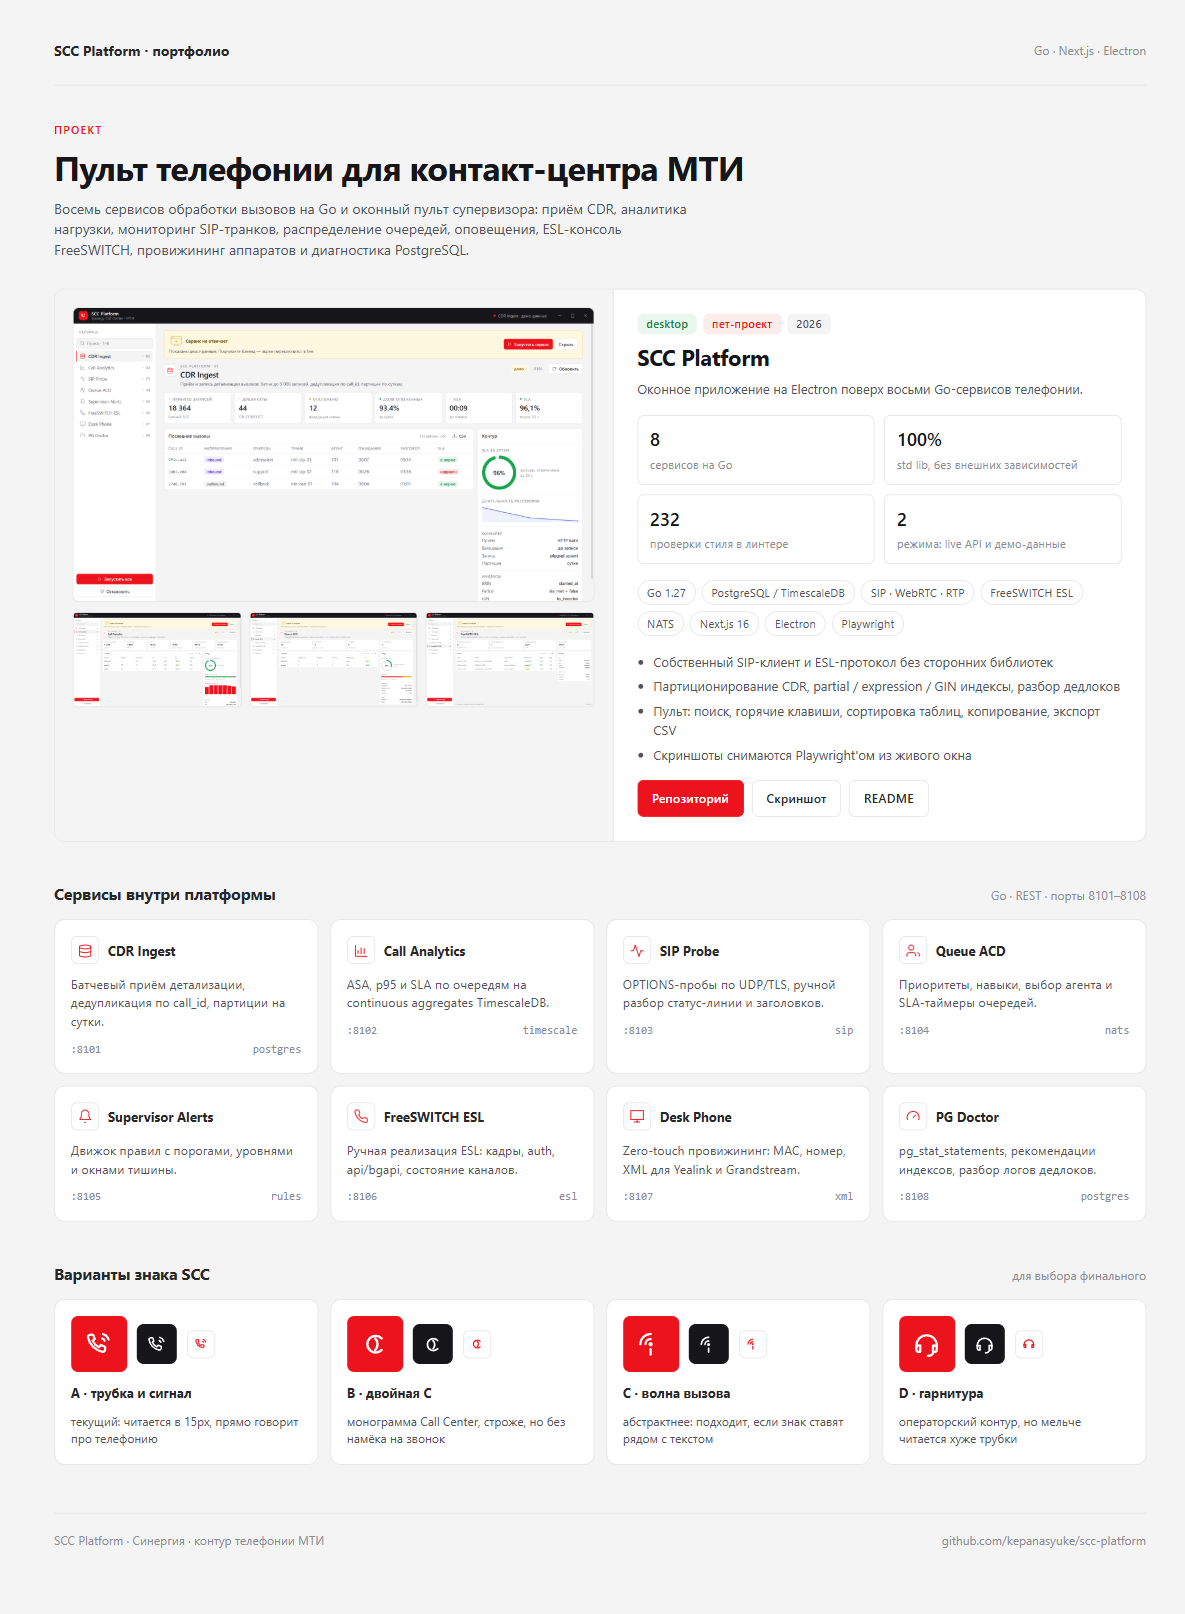
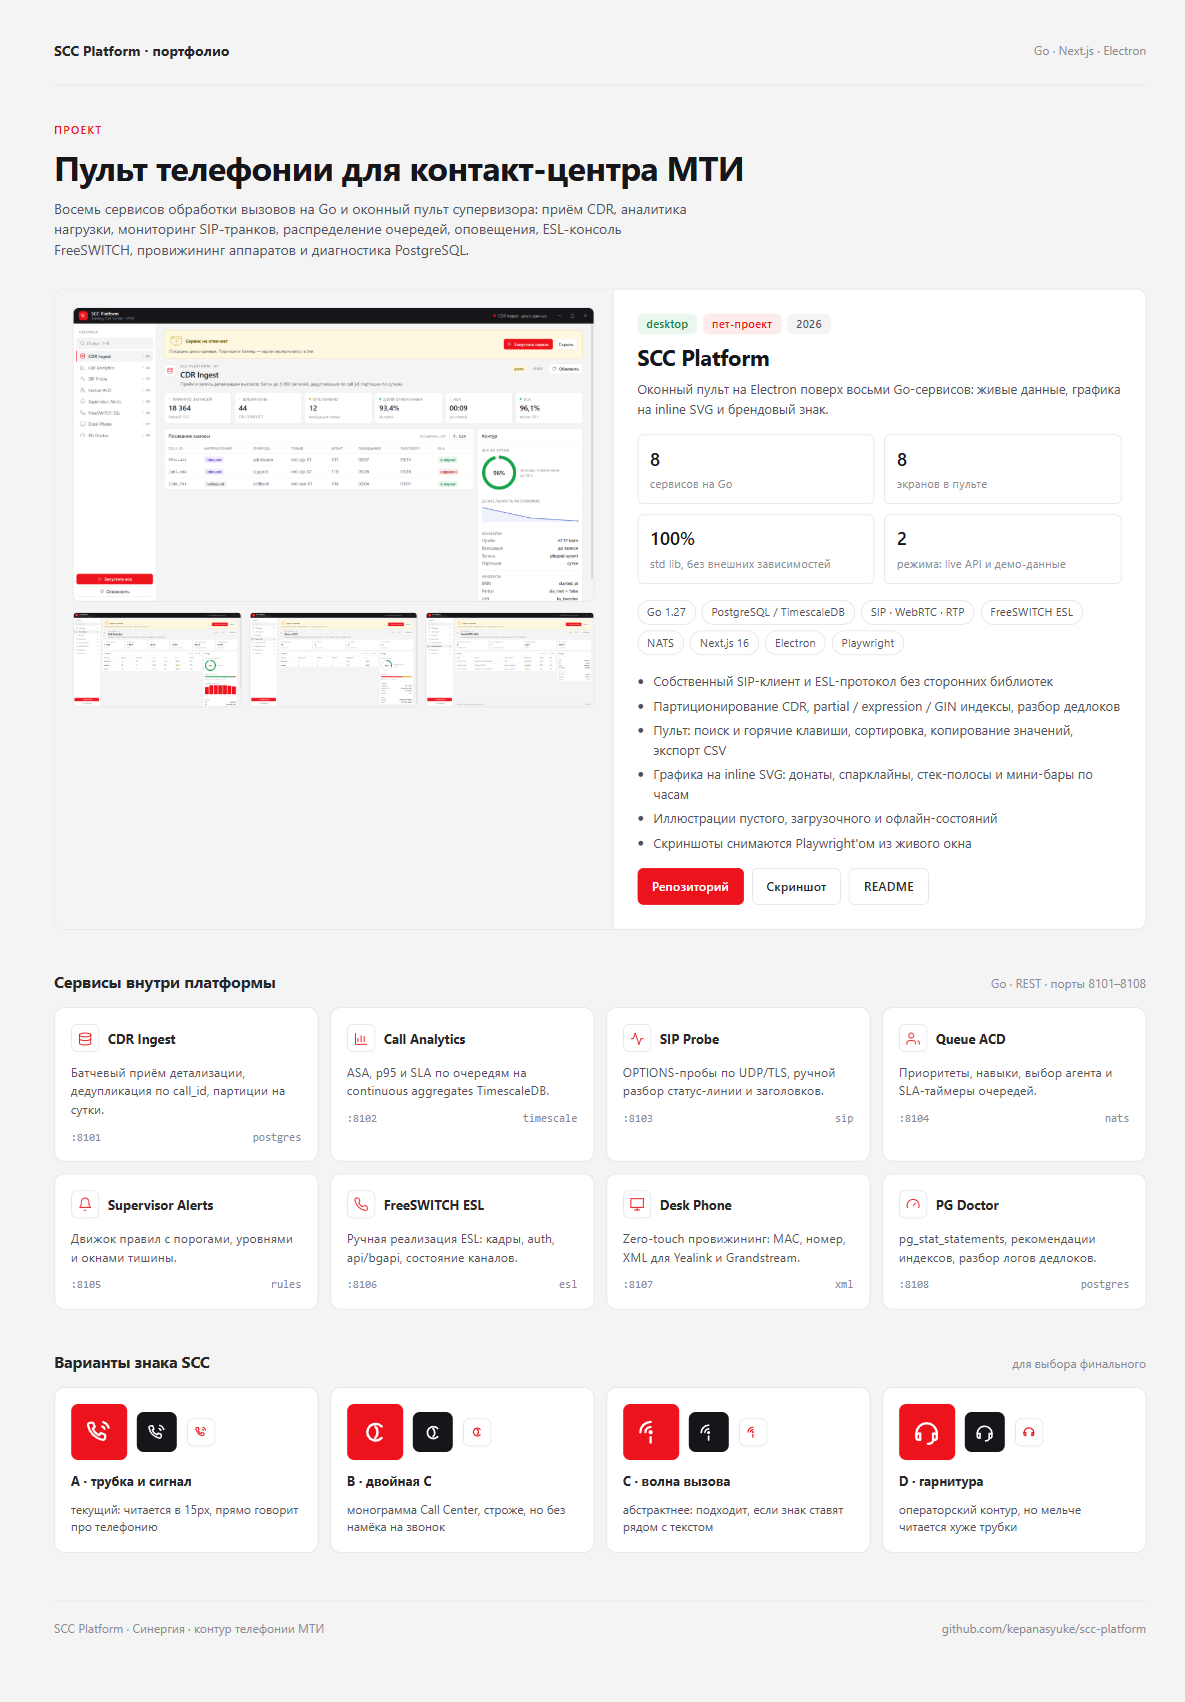
Карточка портфолио: актуальные факты, графика и иллюстрации в возможностях, свежее превью

diff --git a/portfolio/index.html b/portfolio/index.html
@@ -461,13 +461,13 @@
               <span class="badge">2026</span>
             </div>
             <h2>SCC Platform</h2>
-            <p>Оконное приложение на Electron поверх восьми Go-сервисов телефонии.</p>
+            <p>Оконный пульт на Electron поверх восьми Go-сервисов: живые данные, графика на inline SVG и брендовый знак.</p>
           </div>
 
           <div class="facts">
             <div class="fact"><b>8</b><span>сервисов на Go</span></div>
+            <div class="fact"><b>8</b><span>экранов в пульте</span></div>
             <div class="fact"><b>100%</b><span>std lib, без внешних зависимостей</span></div>
-            <div class="fact"><b>232</b><span>проверки стиля в линтере</span></div>
             <div class="fact"><b>2</b><span>режима: live API и демо-данные</span></div>
           </div>
 
@@ -485,7 +485,9 @@
           <ul class="features">
             <li>Собственный SIP-клиент и ESL-протокол без сторонних библиотек</li>
             <li>Партиционирование CDR, partial / expression / GIN индексы, разбор дедлоков</li>
-            <li>Пульт: поиск, горячие клавиши, сортировка таблиц, копирование, экспорт CSV</li>
+            <li>Пульт: поиск и горячие клавиши, сортировка, копирование значений, экспорт CSV</li>
+            <li>Графика на inline SVG: донаты, спарклайны, стек-полосы и мини-бары по часам</li>
+            <li>Иллюстрации пустого, загрузочного и офлайн-состояний</li>
             <li>Скриншоты снимаются Playwright'ом из живого окна</li>
           </ul>
 
